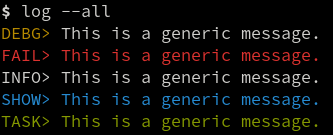
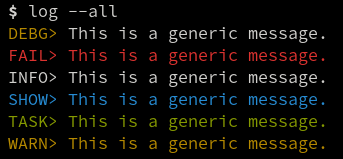
correct screenshot & size

diff --git a/README.md b/README.md
@@ -37,5 +37,5 @@ mv ./log /usr/bin/ # any dir in `PATH`
 ## Screenshots
 
 <div>
-    <img src="screenshots/001.png" alt="screenshot" width="auto" height="270">
+    <img src="screenshots/001.png" alt="screenshot" width="auto" height="100">
 </div>
